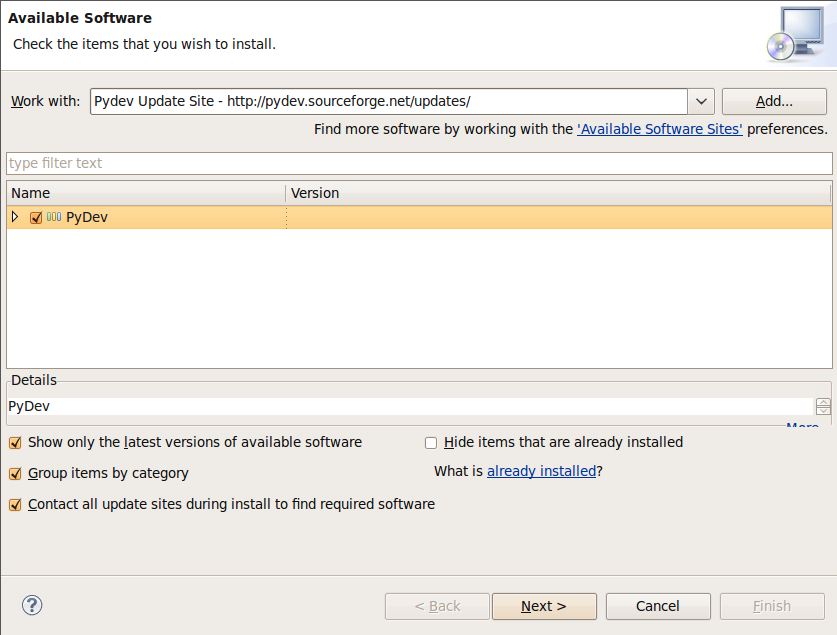
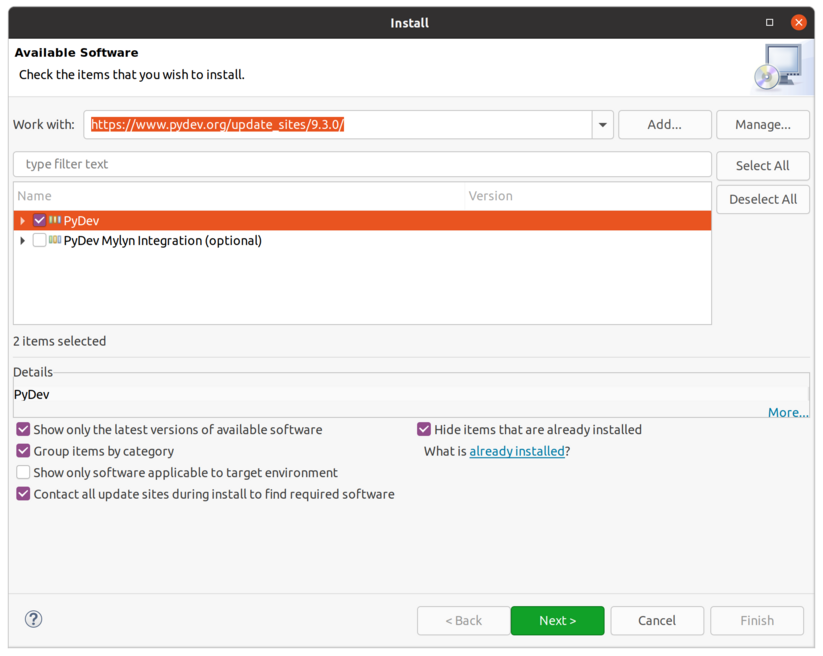
change url to https and update screenshot

diff --git a/JythonIDE.rst b/JythonIDE.rst
@@ -30,7 +30,7 @@ http://pydev.sourceforge.net/ but you won't need to manually download and
 install it.
 
 To install the plugin, start Eclipse and go to the menu :menuselection:`Help -->
-Install new Software...`, type http://www.pydev.org/update_sites/9.3.0/ into the
+Install new Software...`, type https://www.pydev.org/update_sites/9.3.0/ into the
 "Work with" input box and press enter. (The latest version of PyDev requires Python 3, 
 version 9.3.0 is the last version that supports Python 2.7.) After a short moment you 
 will see an entry for PyDev in the bigger box below. Just select it, clicking on the
